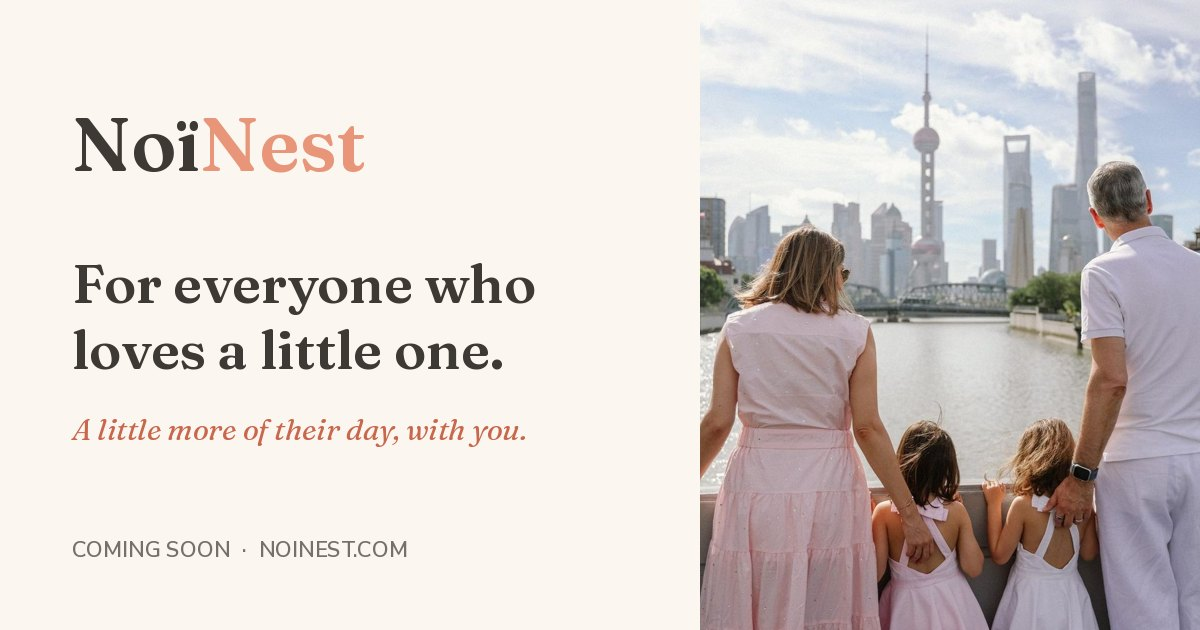
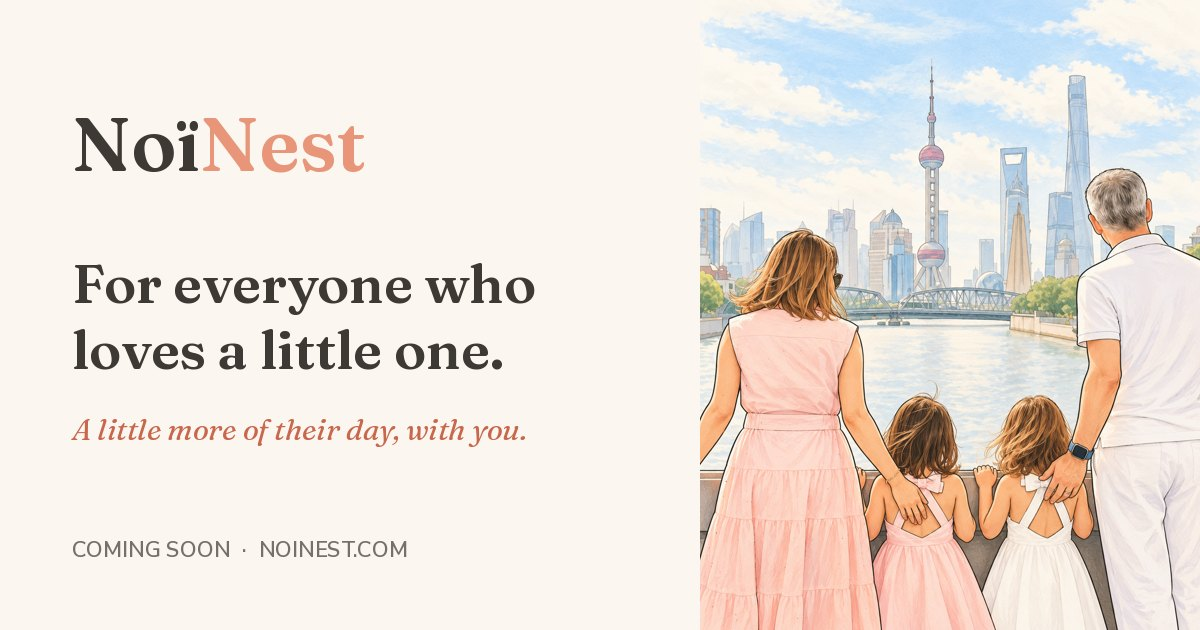
Replace the story photos with illustrations
The family photo and the Shanghai photo become warm illustrations made from the founder's originals, so the hearts over the twins' faces are no longer needed. The share image uses the Shanghai illustration. Images are re-encoded without metadata.

Claude-Session: https://claude.ai/code/session_011wS6UJr8exANVbVjrgcpuW

diff --git a/public/index.html b/public/index.html
@@ -12,7 +12,7 @@
 <meta property="og:title" content="NoïNest · For everyone who loves a little one">
 <meta property="og:description" content="Children grow best surrounded by the kindness of everyone who loves them. Something tender is on its way.">
 <meta property="og:url" content="https://noinest.com/">
-<meta property="og:image" content="https://noinest.com/og-image.jpg">
+<meta property="og:image" content="https://noinest.com/og-image.jpg?v=2">
 <meta property="og:image:width" content="1200">
 <meta property="og:image:height" content="630">
 <meta name="twitter:card" content="summary_large_image">
@@ -58,9 +58,9 @@
     <section class="story" aria-labelledby="story-title">
       <h2 id="story-title">A word that did not exist</h2>
       <p>Every young child is surrounded by people who love them. A mother, a father. A grandmother who flies in for the holidays. A nanny who knows exactly how they like their toast. A family friend who feels like an aunt. A best friend from nursery. For the child, they are simply the people who make the world feel safe. We looked for one word to hold all of them. It did not exist.</p>
-      <figure class="pic"><img src="img/family-nest.jpg" width="1000" height="666" alt="The founder's family lying side by side on a bed, smiling; the two youngest daughters' faces are hidden by hearts"></figure>
+      <figure class="pic"><img src="img/family-nest.jpg?v=2" width="1000" height="667" alt="Illustration of the founder's family lying side by side on a bed, chins on their hands, smiling"></figure>
       <p>Our youngest daughters, twins, spent their first years in Shanghai, where the person who cares for a child is often called <em>Ayi</em>: a gentle word that carries no hierarchy, only warmth. It stayed with us.</p>
-      <figure class="pic tall"><img src="img/shanghai-bund.jpg" width="800" height="1200" alt="A family seen from behind, looking at the Shanghai skyline from a bridge"></figure>
+      <figure class="pic tall"><img src="img/shanghai-bund.jpg?v=2" width="800" height="1000" alt="Illustration of a family seen from behind, looking at the Shanghai skyline from a bridge"></figure>
       <p>So we invented a word: <strong>Noï</strong>. Short and soft, easy for small mouths, the same for everyone who cares. Only later did we learn that <em>noi</em> means “we” in Italian and “little” in Thai. We, and the little one.</p>
       <p class="define"><strong>Noï</strong> is anyone in a child's circle of love: a parent, a grandparent, a nanny, a relative, a friend big or small.</p>
 
